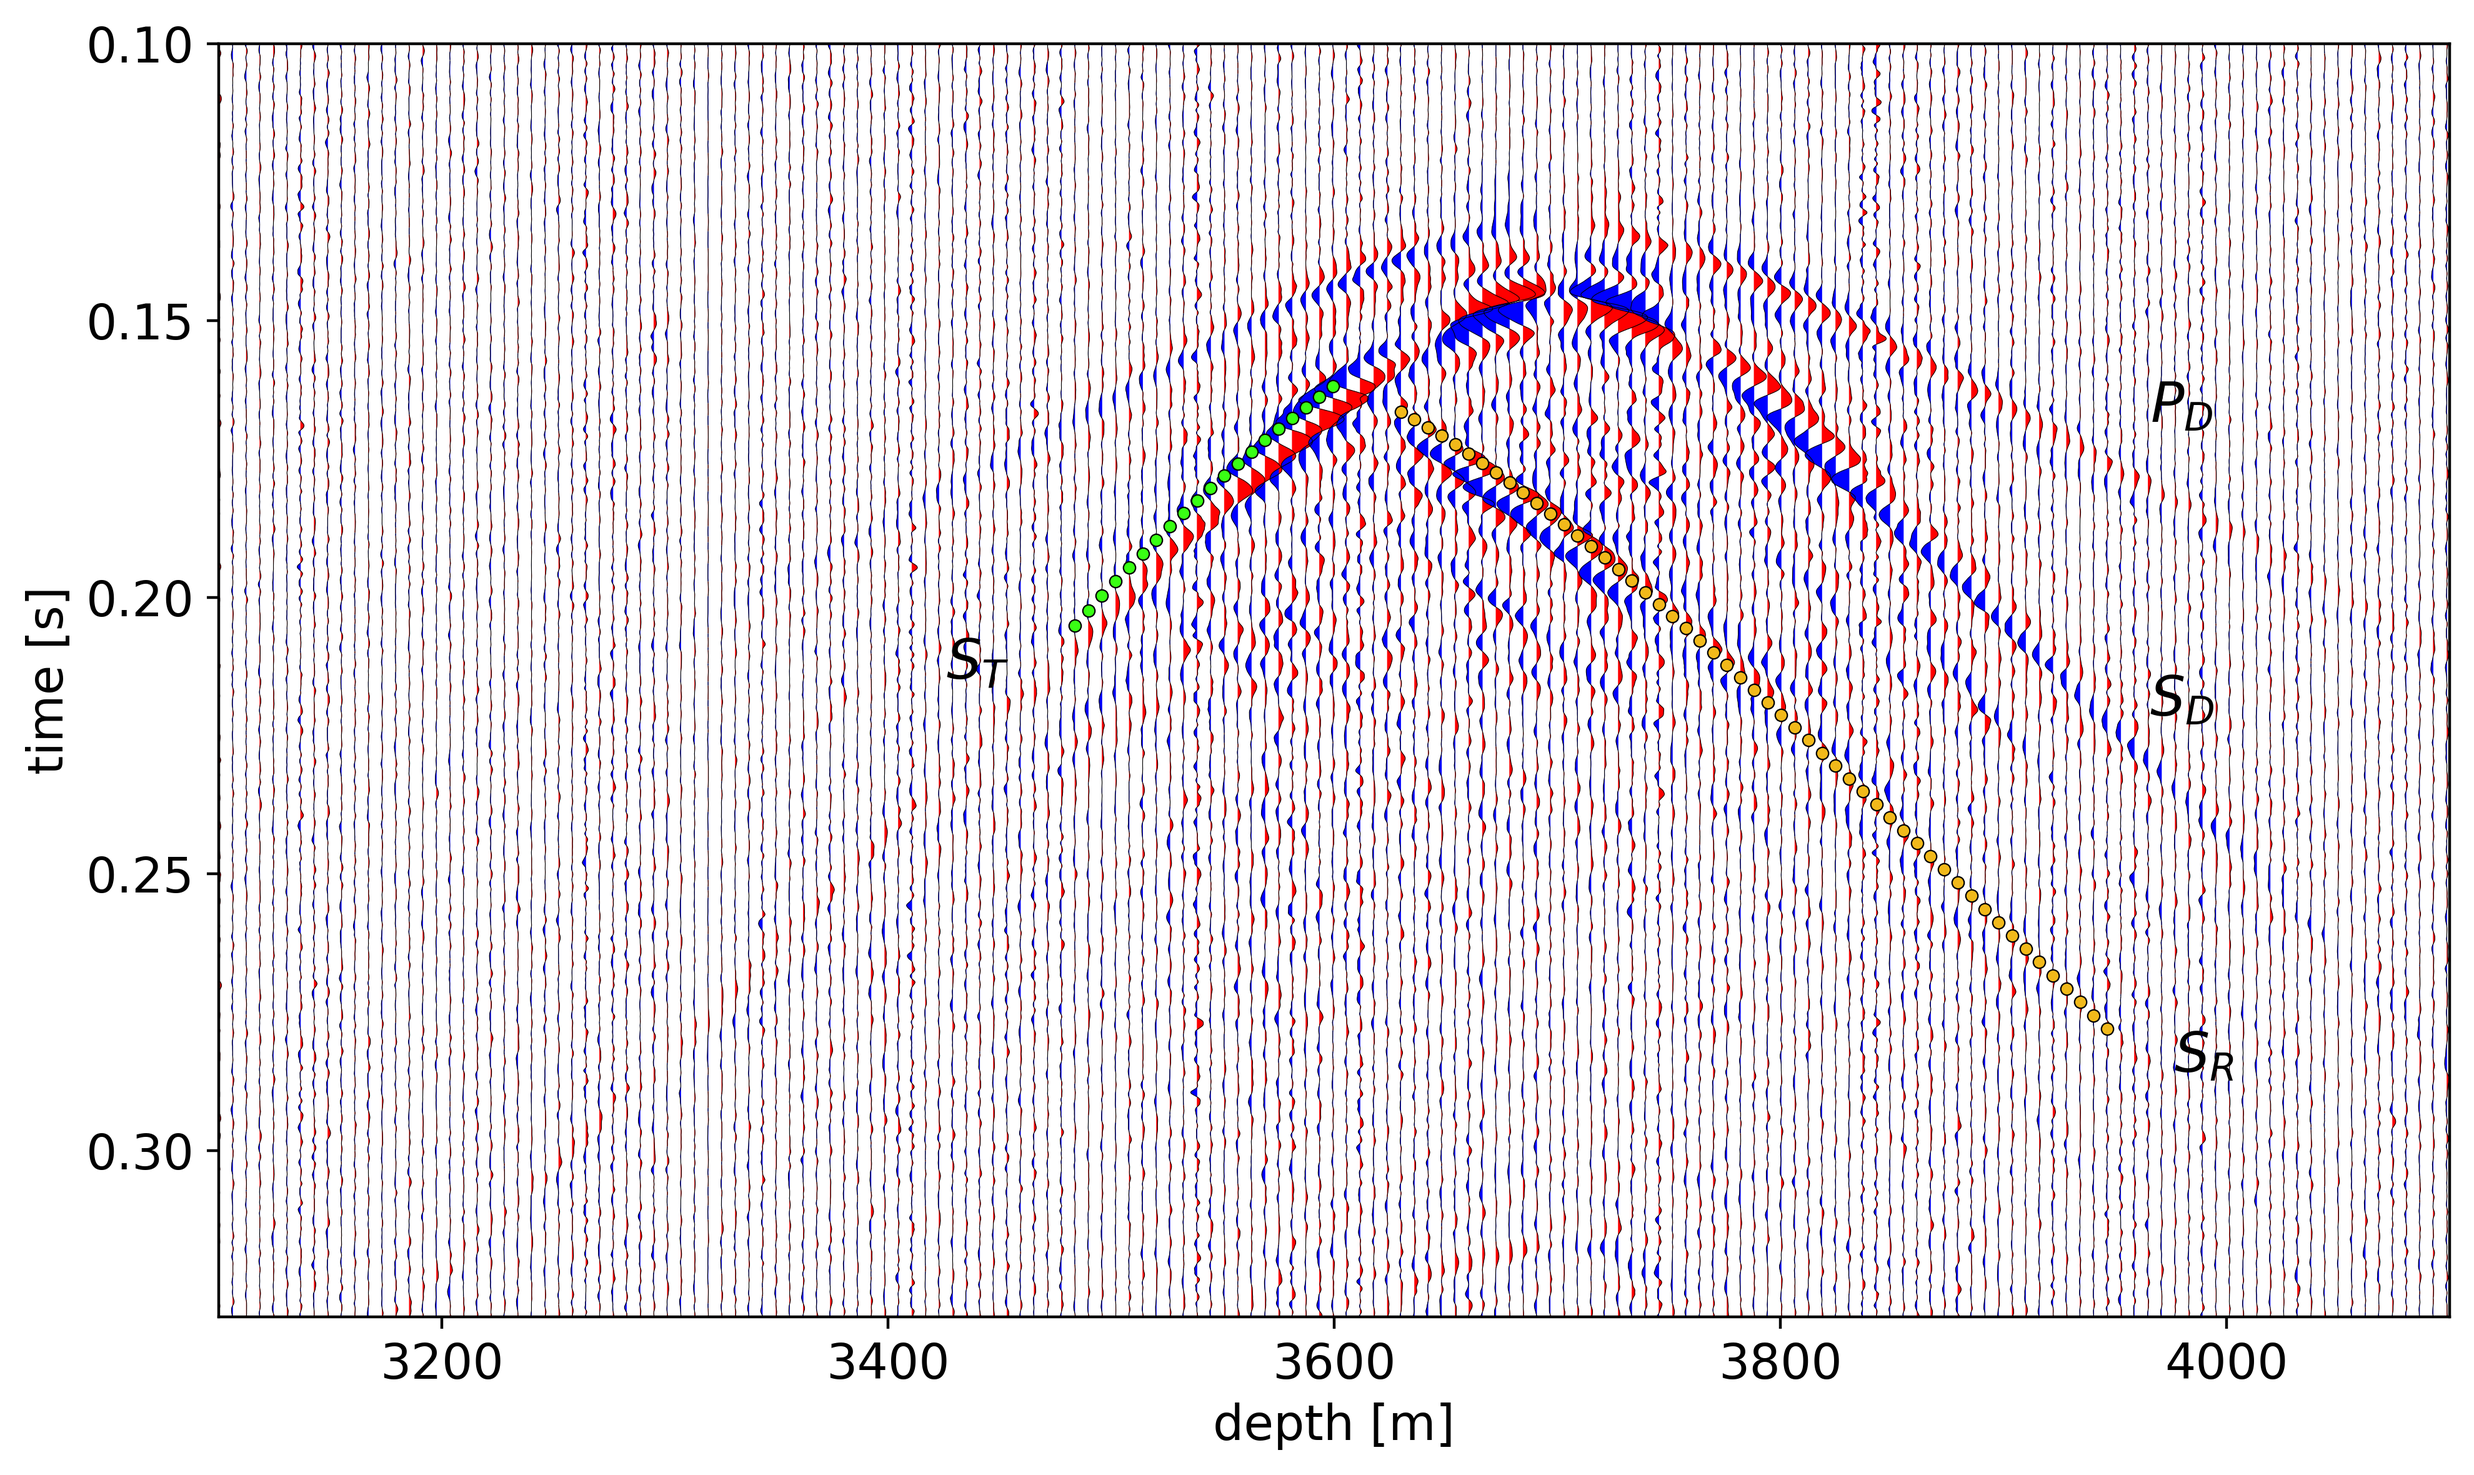
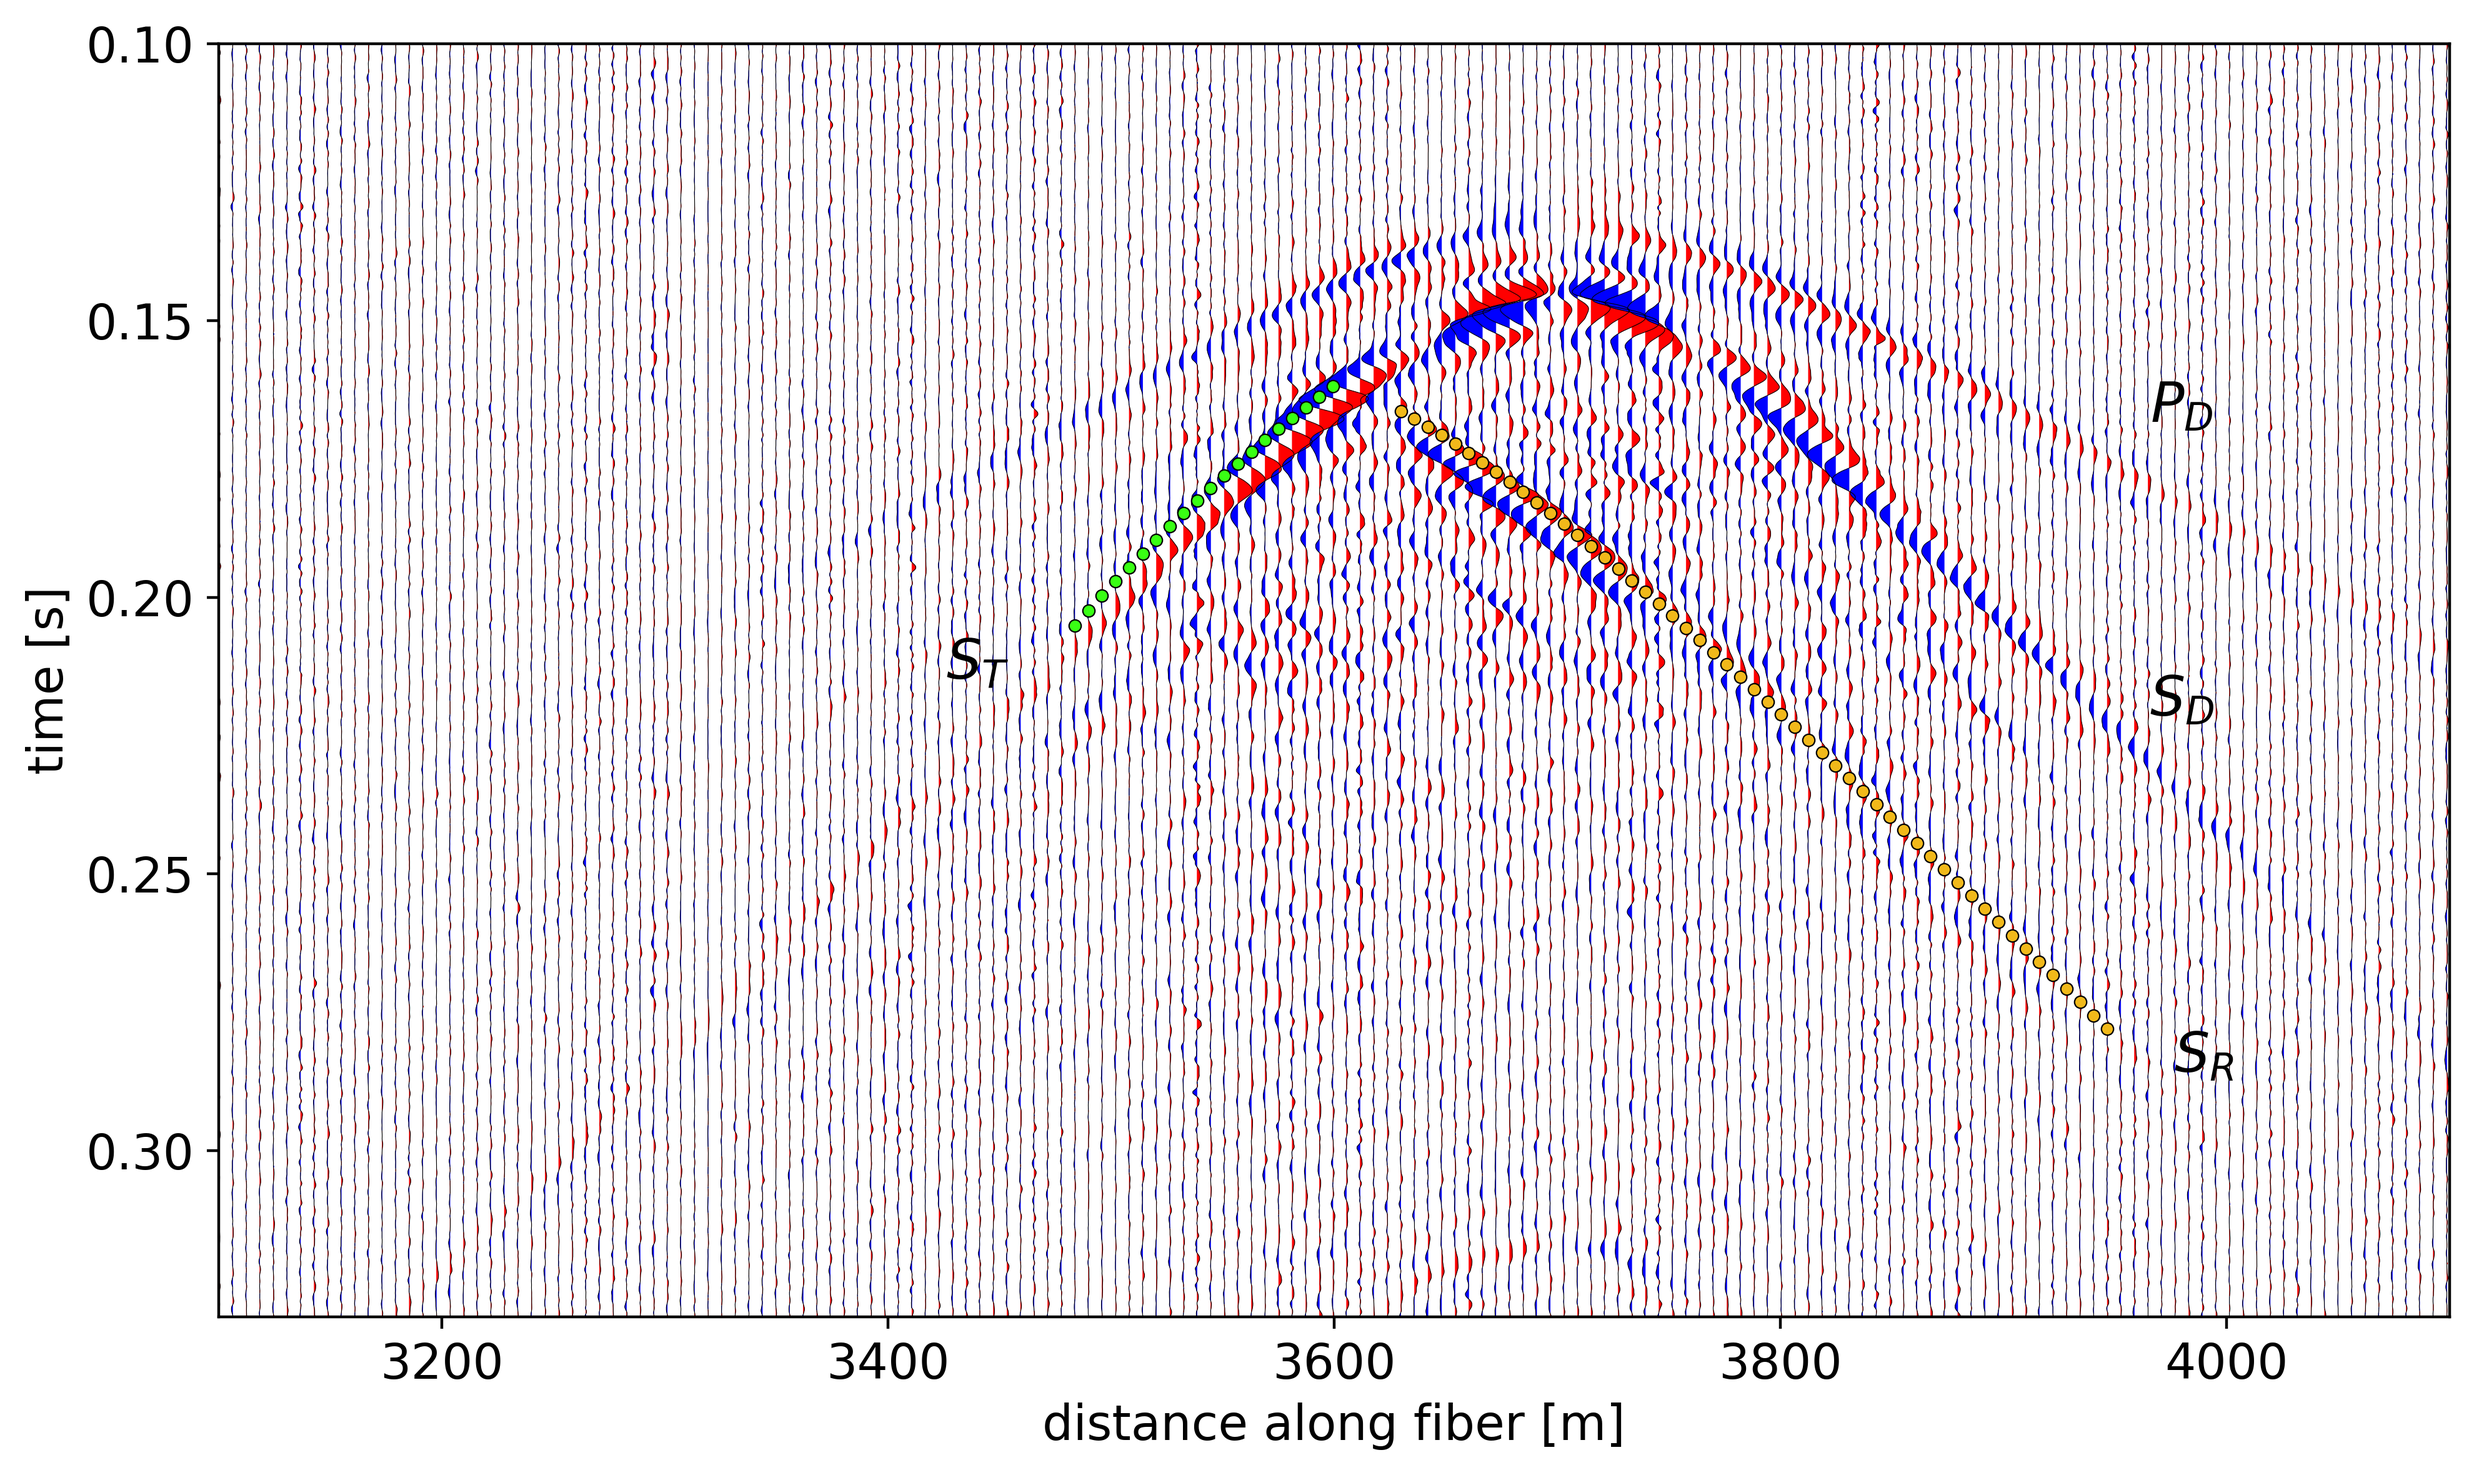
corrected figures

diff --git a/py_files/DAS_plots.py b/py_files/DAS_plots.py
@@ -2724,3 +2724,62 @@ def plot_reflections_paper(drange, source, best_line_out, xr=0.0, step=2,
         Path(save_path).parent.mkdir(parents=True, exist_ok=True)
         fig.savefig(save_path, dpi=dpi, bbox_inches="tight")
     return fig, ax
+
+
+def plot_wiggle_reflection_tt_paper(das, tt_fit_fracture, trans_tt=None, legend=False, dots=True,
+                                    dot_ms=3.5, dot_edge="k", dot_ew=0.4, labels=None,
+                                    text_size=14, save_path=None,
+                                    dpi=400, **kwargs):
+    """
+    Purpose
+    -------
+    Paper version of plot_wiggle_reflection_tt (which is called unchanged): same wiggle
+    panel and SS_r / SS_t traveltime dots, but
+      - no legend (legend=True keeps it),
+      - solid, sharper dots: full opacity, slightly larger, thin dark edge so the light
+        colors (#F1B91A, #39FF14) stand out on the red/blue wiggles,
+      - dots drawn on top of the wiggles,
+      - dots=False removes the traveltime dots: wiggles only,
+      - optional phase labels (e.g. $P_D$, $S_D$, $S_R$, $S_T$) written at given points.
+
+    Input
+    -----
+    das, tt_fit_fracture, trans_tt : as plot_wiggle_reflection_tt.
+    legend : bool, keep the legend (default False).
+    dots : bool, draw the SS_r / SS_t traveltime dots (default True).
+    dot_ms : dot size [pt].
+    dot_edge : dot edge color.
+    dot_ew : dot edge width [pt].
+    labels : dict {text: (depth [m], time [s])} or None; text placed at that point
+        (centered), bold, no background (use mathtext, e.g. r"$\mathbf{P_D}$" for an
+        upright bold label with subscript).
+    text_size : font size [pt] of the labels.
+    save_path : PNG path, or None to skip saving.
+    dpi : resolution of the saved PNG.
+    **kwargs : any other plot_wiggle_reflection_tt option (scale, trace_step, linewidth,
+        figsize, xlim, ylim, label_size, legend_size, trans_dmax).
+
+    Output
+    ------
+    (fig, ax)
+    """
+    kwargs.pop("tt_alpha", None)                              # dots always solid here
+    kwargs.pop("tt_ms", None)
+    fig, ax = plot_wiggle_reflection_tt(das, tt_fit_fracture, trans_tt=trans_tt, save_path=None,
+                                        tt_ms=dot_ms, tt_alpha=1.0, **kwargs)
+    for ln in ax.get_lines():                                 # restyle (or remove) the traveltime dots only
+        if ln.get_marker() == "o" and not dots:
+            ln.remove()
+        elif ln.get_marker() == "o":
+            ln.set_markeredgecolor(dot_edge)
+            ln.set_markeredgewidth(dot_ew)
+            ln.set_zorder(10)
+    for txt, (xd, yt) in (labels or {}).items():              # phase labels on top of everything
+        ax.text(xd, yt, txt, fontsize=text_size, fontweight="bold", ha="center",
+                va="center", zorder=11)
+    if not legend and ax.get_legend() is not None:
+        ax.get_legend().remove()
+    if save_path is not None:
+        Path(save_path).parent.mkdir(parents=True, exist_ok=True)
+        fig.savefig(save_path, dpi=dpi, bbox_inches="tight")
+    return fig, ax
